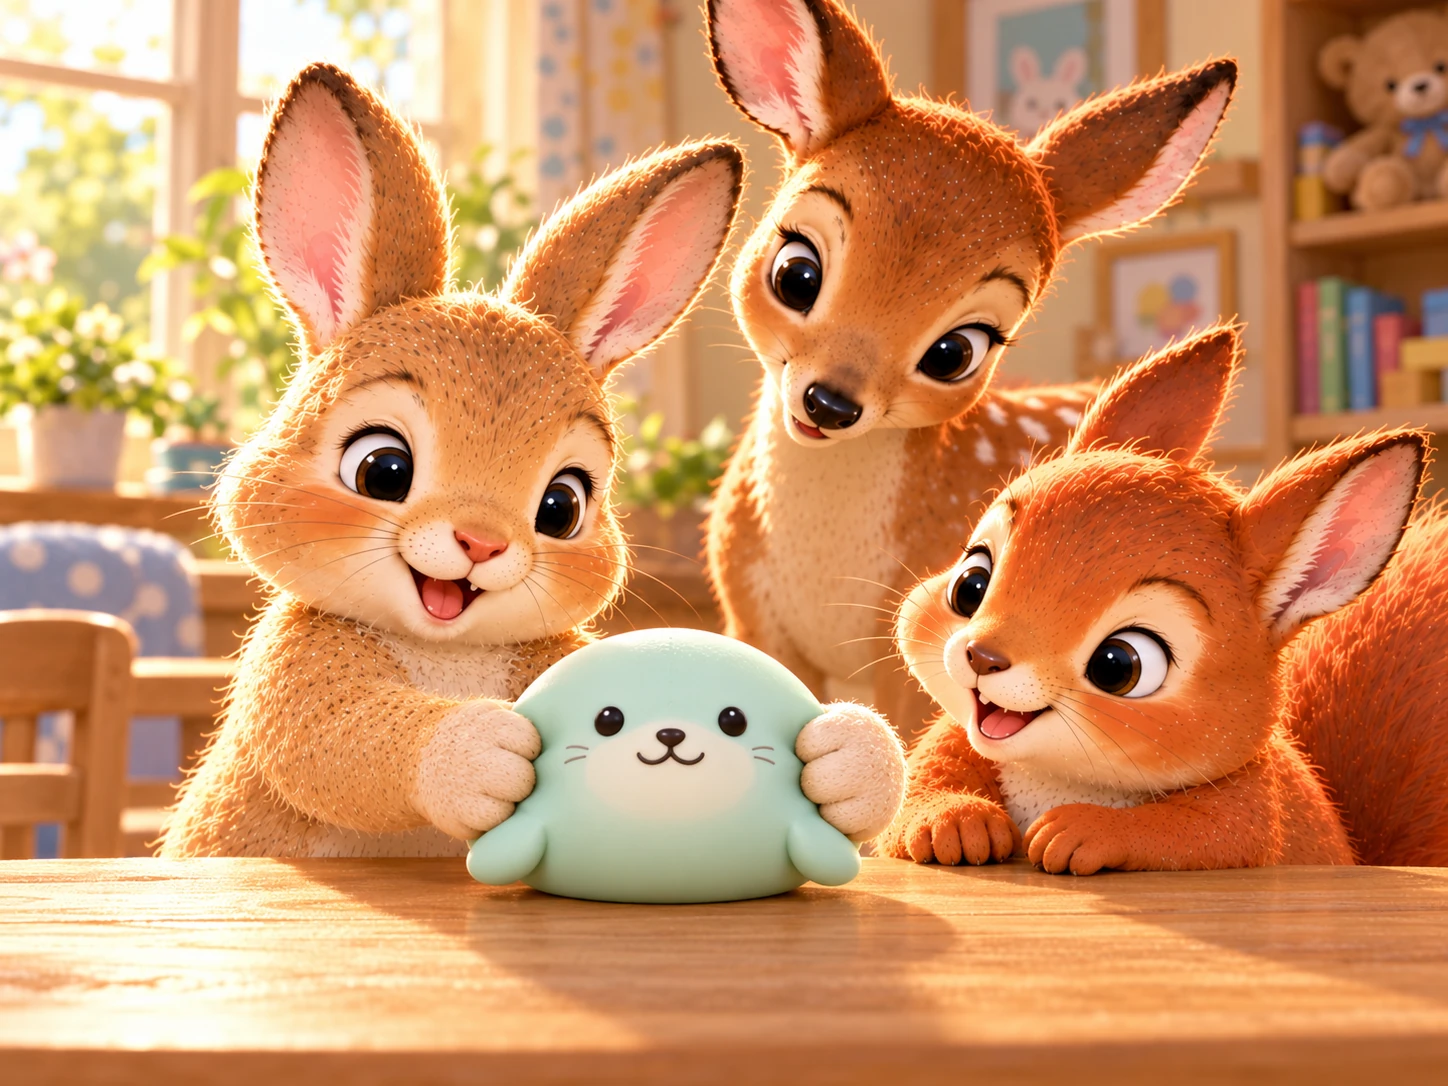
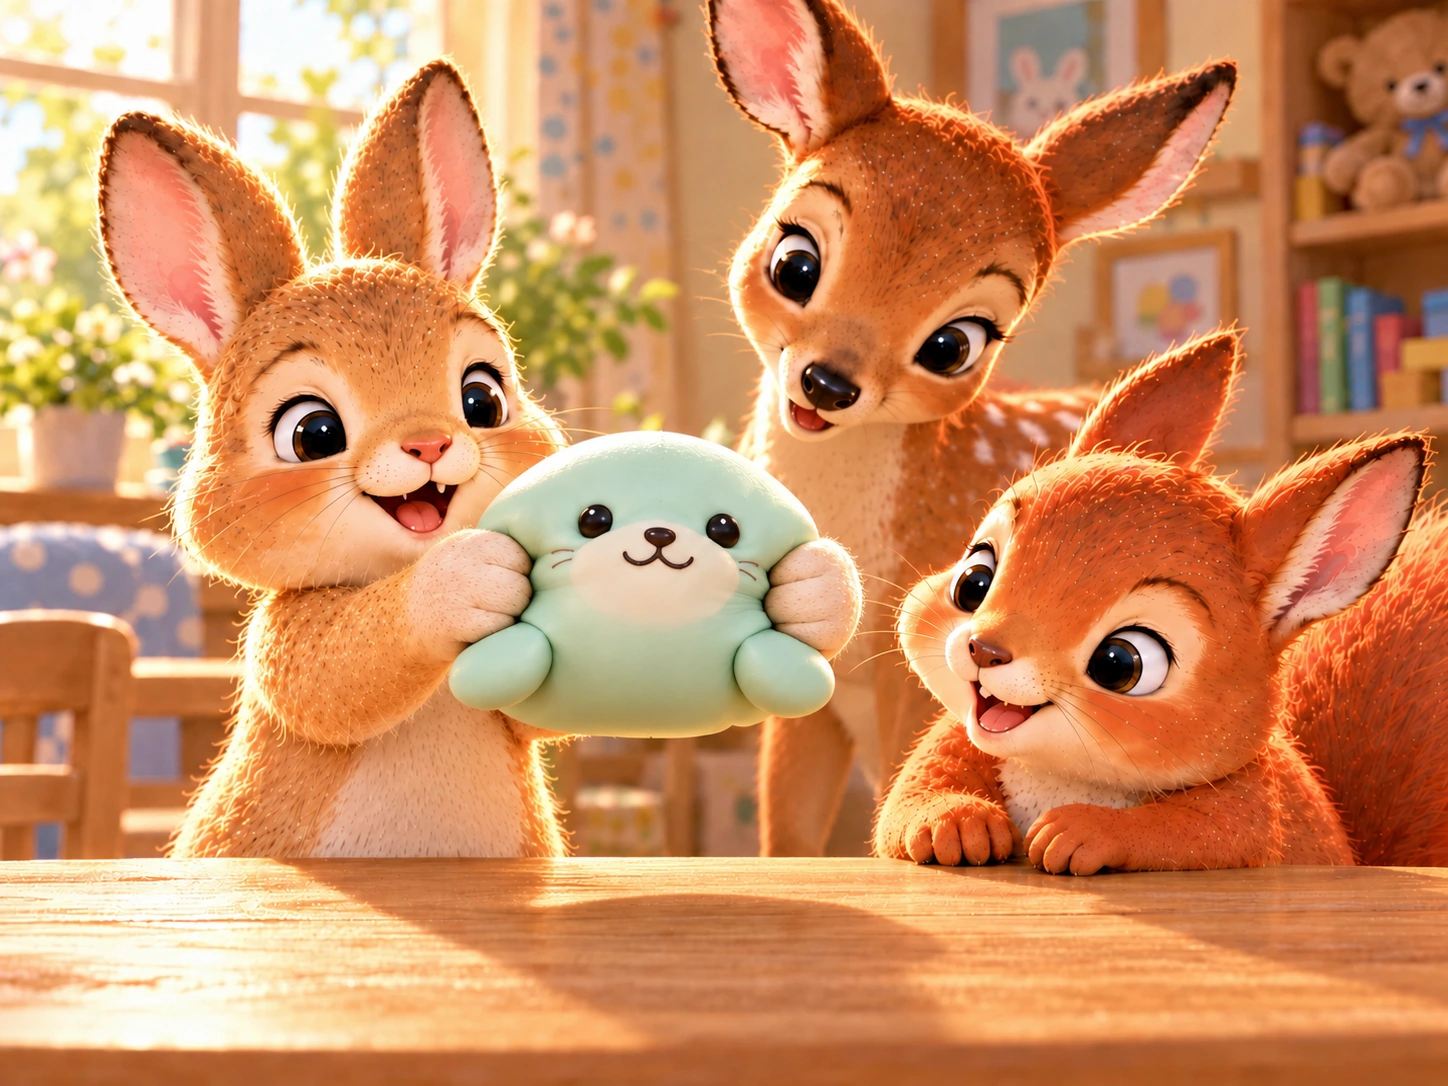
onepoint: use approved held-squish mallang/moolleong scenes

diff --git a/onepoint/mallang-moolleong/index.html b/onepoint/mallang-moolleong/index.html
@@ -11,8 +11,8 @@
 <script defer src="../../assets/visual-header.js?v=20260915-onepoint-1" data-section="닿소리 홀소리" data-current="onepoint" data-section-href="../"></script>
 <link rel="stylesheet" href="sample.css"><script defer src="sample.js"></script>
 <link rel="stylesheet" href="../../assets/visual-stories-carousel.css?v=20261001-1"><script defer src="../../assets/visual-stories-carousel.js?v=20261001-1" data-current="onepoint"></script>
-<link rel="canonical" href="https://visual.newsis.com/onepoint/mallang-moolleong/index.html"><meta property="og:url" content="https://visual.newsis.com/onepoint/mallang-moolleong/index.html"><meta property="og:image" content="https://visual.newsis.com/onepoint/images/mallang-moolleong-1.webp?v=20261002-r3"><meta name="twitter:title" content="말랑말랑 · 물렁물렁 | 닿소리 홀소리"><meta name="twitter:description" content="말랑말랑한 물범 말랑이가 물렁물렁 흘러내려요. 스와이프로 촉감의 차이를 느껴 보세요."><meta name="twitter:image" content="https://visual.newsis.com/onepoint/images/mallang-moolleong-1.webp?v=20261002-r3">
-<script type="application/ld+json">{"@context":"https://schema.org","@type":"Article","headline":"말랑말랑 · 물렁물렁","description":"말랑말랑한 물범 말랑이가 물렁물렁 흘러내려요. 스와이프로 촉감의 차이를 느껴 보세요.","url":"https://visual.newsis.com/onepoint/mallang-moolleong/index.html","inLanguage":"ko-KR","image":["https://visual.newsis.com/onepoint/images/mallang-moolleong-1.webp?v=20261002-r3"],"author":{"@type":"Person","name":"안재현","jobTitle":"기자"},"publisher":{"@type":"Organization","name":"뉴시스","url":"https://www.newsis.com/"},"isPartOf":{"@type":"CollectionPage","name":"닿소리 홀소리","url":"https://visual.newsis.com/onepoint/"}}</script>
+<link rel="canonical" href="https://visual.newsis.com/onepoint/mallang-moolleong/index.html"><meta property="og:url" content="https://visual.newsis.com/onepoint/mallang-moolleong/index.html"><meta property="og:image" content="https://visual.newsis.com/onepoint/images/mallang-moolleong-1.webp?v=20261003-held1"><meta name="twitter:title" content="말랑말랑 · 물렁물렁 | 닿소리 홀소리"><meta name="twitter:description" content="말랑말랑한 물범 말랑이가 물렁물렁 흘러내려요. 스와이프로 촉감의 차이를 느껴 보세요."><meta name="twitter:image" content="https://visual.newsis.com/onepoint/images/mallang-moolleong-1.webp?v=20261003-held1">
+<script type="application/ld+json">{"@context":"https://schema.org","@type":"Article","headline":"말랑말랑 · 물렁물렁","description":"말랑말랑한 물범 말랑이가 물렁물렁 흘러내려요. 스와이프로 촉감의 차이를 느껴 보세요.","url":"https://visual.newsis.com/onepoint/mallang-moolleong/index.html","inLanguage":"ko-KR","image":["https://visual.newsis.com/onepoint/images/mallang-moolleong-1.webp?v=20261003-held1"],"author":{"@type":"Person","name":"안재현","jobTitle":"기자"},"publisher":{"@type":"Organization","name":"뉴시스","url":"https://www.newsis.com/"},"isPartOf":{"@type":"CollectionPage","name":"닿소리 홀소리","url":"https://visual.newsis.com/onepoint/"}}</script>
 </head>
 <body class="two-vowels">
 <main>
@@ -23,8 +23,8 @@
 </section>
 <section class="experience" aria-label="말랑말랑과 물렁물렁 이미지 비교">
 <div class="compare" id="compare" style="--split:50%">
-<img class="scene" src="../images/mallang-moolleong-1.webp?v=20261002-r3" width="1448" height="1086" alt="토끼가 민트색 물범 말랑이를 만지며 친구들과 노는 모습" fetchpriority="high" draggable="false">
-<img class="scene reveal" src="../images/mallang-moolleong-2.webp?v=20261002-r3" width="1448" height="1086" alt="흐물거리는 말랑이를 쥐고 울먹이는 토끼와 안타까워하는 친구들" draggable="false">
+<img class="scene" src="../images/mallang-moolleong-1.webp?v=20261003-held1" width="1448" height="1086" alt="토끼가 민트색 물범 말랑이를 두 손에 들고 꾹 눌러 친구들과 노는 모습" fetchpriority="high" draggable="false">
+<img class="scene reveal" src="../images/mallang-moolleong-2.webp?v=20261003-held1" width="1448" height="1086" alt="손에 든 물범 말랑이가 물렁하게 흘러내리자 울먹이는 토끼와 안타까워하는 친구들" draggable="false">
 <div class="photo-label label-a" aria-hidden="true">말랑말랑</div><div class="photo-label label-b" aria-hidden="true">물렁물렁</div>
 <div class="divider" aria-hidden="true"></div><div class="handle" aria-hidden="true"><b>ㅏ·ㅏ</b><span>↔</span><b>ㅜ·ㅓ</b></div>
 <input id="slider" type="range" min="0" max="100" value="50" aria-label="장면 비교: 왼쪽은 말랑말랑, 오른쪽은 물렁물렁" aria-valuetext="말랑말랑 전체 장면" aria-describedby="slider-help">
@@ -34,8 +34,8 @@
 </section>
 <section class="story" id="pictures" aria-label="두 장면 비교">
 <div class="pair">
-<figure><img src="../images/mallang-moolleong-1.webp?v=20261002-r3" width="1448" height="1086" alt="토끼가 민트색 물범 말랑이를 만지며 친구들과 노는 모습" loading="lazy"><figcaption><span class="letter">ㅏ·ㅏ</span><div><h3>말랑말랑</h3></div></figcaption></figure>
-<figure><img src="../images/mallang-moolleong-2.webp?v=20261002-r3" width="1448" height="1086" alt="흐물거리는 말랑이를 쥐고 울먹이는 토끼와 안타까워하는 친구들" loading="lazy"><figcaption><span class="letter">ㅜ·ㅓ</span><div><h3>물렁물렁</h3></div></figcaption></figure>
+<figure><img src="../images/mallang-moolleong-1.webp?v=20261003-held1" width="1448" height="1086" alt="토끼가 민트색 물범 말랑이를 두 손에 들고 꾹 눌러 친구들과 노는 모습" loading="lazy"><figcaption><span class="letter">ㅏ·ㅏ</span><div><h3>말랑말랑</h3></div></figcaption></figure>
+<figure><img src="../images/mallang-moolleong-2.webp?v=20261003-held1" width="1448" height="1086" alt="손에 든 물범 말랑이가 물렁하게 흘러내리자 울먹이는 토끼와 안타까워하는 친구들" loading="lazy"><figcaption><span class="letter">ㅜ·ㅓ</span><div><h3>물렁물렁</h3></div></figcaption></figure>
 </div>
 <p class="note">두 그림은 말의 느낌을 이야기로 풀어낸 AI 연출 이미지입니다.</p>
 </section>
